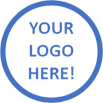
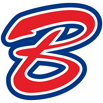
copied custom files of BWNT

diff --git a/company_setup/AppSellFranchise copy/environmentConfig/dev.env.js b/company_setup/AppSellFranchise copy/environmentConfig/dev.env.js
@@ -3,19 +3,19 @@ var prodEnv = require('./prod.env')
 
 module.exports = merge(prodEnv, {
   NODE_ENV: '"development"',
-  projectId: '"appsellfranchise"',
-  appId: '"1:1069219513340:web:640e8dbeaebfecf8ee2879"',
-  databaseURL: '"https://appsellfranchise.firebaseio.com"',
-  storageBucket: '"appsellfranchise.appspot.com"',
-  apiKey: '"AIzaSyBp7LvQJL0PjA1mtrDGk7SvN_OUAK9RJqQ"',
-  authDomain: '"appsellfranchise.firebaseapp.com"',
-  messagingSenderId: '"1069219513340"',
-  storageCode: '"AppSellFranchise"',
+  projectId: '"buffalowings-dev"',
+  appId: '"1:536526629541:web:333e1792ce8f83d530fb4c"',
+  databaseURL: '"https://buffalowings-dev.firebaseio.com"',
+  storageBucket: '"buffalowings-dev.appspot.com"',
+  apiKey: '"AIzaSyAeoTQG_rtVx1sSPLBd5FDvNcO1q3gSKpo"',
+  authDomain: '"buffalowings-dev.firebaseapp.com"',
+  messagingSenderId: '"536526629541"',
+  storageCode: '"BuffaloWingsNThings"',
   webAdminId: '"admin"',
-  companyName: '"AppSell Demo App"',
+  companyName: '"Buffalo\'s Wings N Things"',
   contactNumber: '"09123456789"',
   version: '"0.6.10"',
-  primaryColor: '"#d66807"',
+  primaryColor: '"#0099ff"',
   environment: '"test"',
-  callbackURL: '"https://us-central1-appsellfranchise.cloudfunctions.net/callback/checkPaymentStatus"',
+  callbackURL: '"https://us-central1-buffalowings-dev.cloudfunctions.net/callback/checkPaymentStatus"',
 })

diff --git a/company_setup/AppSellFranchise copy/environmentConfig/test.env.js b/company_setup/AppSellFranchise copy/environmentConfig/test.env.js
@@ -3,19 +3,19 @@ var devEnv = require('./dev.env')
 
 module.exports = merge(devEnv, {
   NODE_ENV: '"testing"',
-  projectId: '"appsellfranchise"',
-  appId: '"1:1069219513340:web:640e8dbeaebfecf8ee2879"',
-  databaseURL: '"https://appsellfranchise.firebaseio.com"',
-  storageBucket: '"appsellfranchise.appspot.com"',
-  apiKey: '"AIzaSyBp7LvQJL0PjA1mtrDGk7SvN_OUAK9RJqQ"',
-  authDomain: '"appsellfranchise.firebaseapp.com"',
-  messagingSenderId: '"1069219513340"',
-  storageCode: '"AppSellFranchise"',
+  projectId: '"buffalowings-dev"',
+  appId: '"1:536526629541:web:333e1792ce8f83d530fb4c"',
+  databaseURL: '"https://buffalowings-dev.firebaseio.com"',
+  storageBucket: '"buffalowings-dev.appspot.com"',
+  apiKey: '"AIzaSyAeoTQG_rtVx1sSPLBd5FDvNcO1q3gSKpo"',
+  authDomain: '"buffalowings-dev.firebaseapp.com"',
+  messagingSenderId: '"536526629541"',
+  storageCode: '"BuffaloWingsNThings"',
   webAdminId: '"admin"',
-  companyName: '"AppSell Demo App"',
+  companyName: '"Buffalo\'s Wings N Things"',
   contactNumber: '"09123456789"',
   version: '"0.6.10"',
-  primaryColor: '"#d66807"',
+  primaryColor: '"#0099ff"',
   environment: '"test"',
-  callbackURL: '"https://us-central1-appsellfranchise.cloudfunctions.net/callback/checkPaymentStatus"',
+  callbackURL: '"https://us-central1-buffalowings-dev.cloudfunctions.net/callback/checkPaymentStatus"',
 })

diff --git a/company_setup/AppSellFranchise copy/environmentConfig/prod.env.js b/company_setup/AppSellFranchise copy/environmentConfig/prod.env.js
@@ -1,18 +1,18 @@
 module.exports = {
   NODE_ENV: '"production"',
-  projectId: '"appsellfranchise"',
-  appId: '"1:1069219513340:web:640e8dbeaebfecf8ee2879"',
-  databaseURL: '"https://appsellfranchise.firebaseio.com"',
-  storageBucket: '"appsellfranchise.appspot.com"',
-  apiKey: '"AIzaSyBp7LvQJL0PjA1mtrDGk7SvN_OUAK9RJqQ"',
-  authDomain: '"appsellfranchise.firebaseapp.com"',
-  messagingSenderId: '"1069219513340"',
-  storageCode: '"AppSellFranchise"',
+  projectId: '"buffalowings-dev"',
+  appId: '"1:536526629541:web:333e1792ce8f83d530fb4c"',
+  databaseURL: '"https://buffalowings-dev.firebaseio.com"',
+  storageBucket: '"buffalowings-dev.appspot.com"',
+  apiKey: '"AIzaSyAeoTQG_rtVx1sSPLBd5FDvNcO1q3gSKpo"',
+  authDomain: '"buffalowings-dev.firebaseapp.com"',
+  messagingSenderId: '"536526629541"',
+  storageCode: '"BuffaloWingsNThings"',
   webAdminId: '"admin"',
-  companyName: '"AppSell Demo App"',
+  companyName: '"Buffalo\'s Wings N Things"',
   contactNumber: '"09123456789"',
   version: '"0.6.10"',
-  primaryColor: '"#d66807"',
+  primaryColor: '"#0099ff"',
   environment: '"live"',
-  callbackURL: '"https://us-central1-appsellfranchise.cloudfunctions.net/callback/checkPaymentStatus"',
+  callbackURL: '"https://us-central1-buffalowings-dev.cloudfunctions.net/callback/checkPaymentStatus"',
 }
